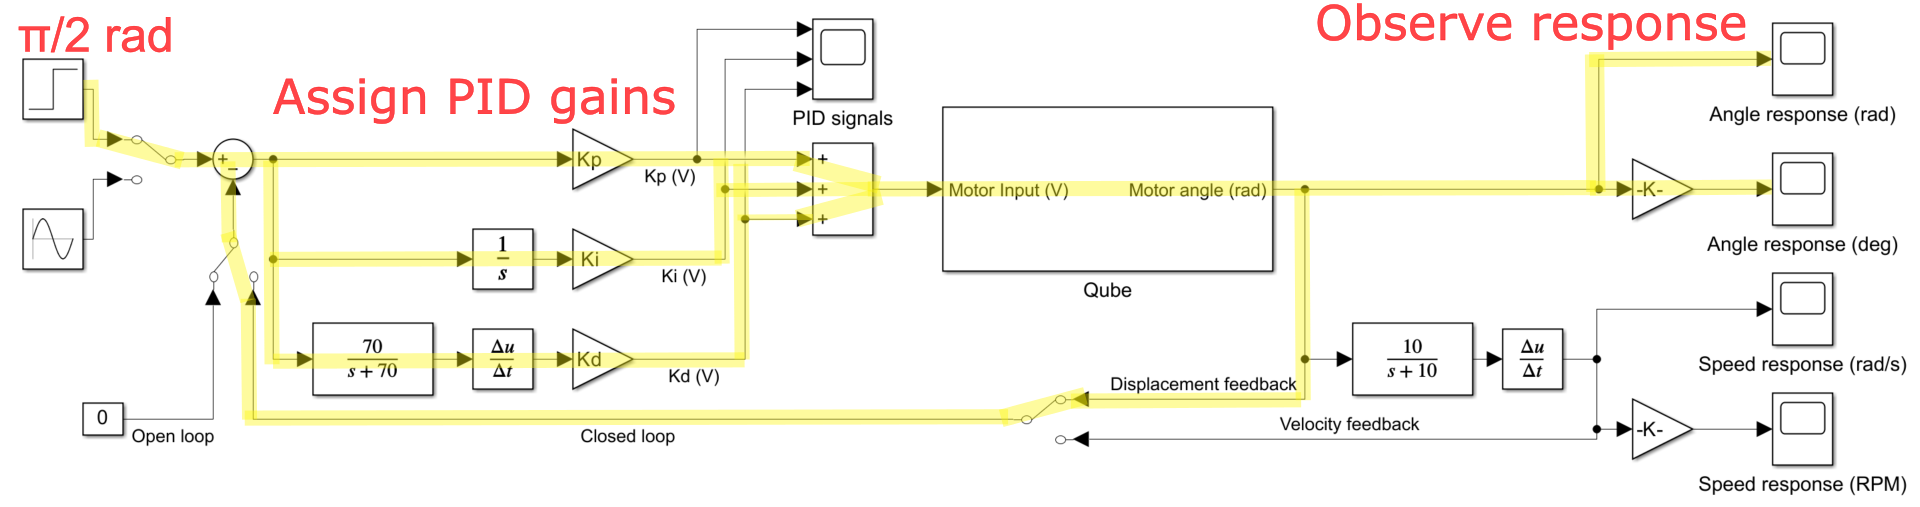
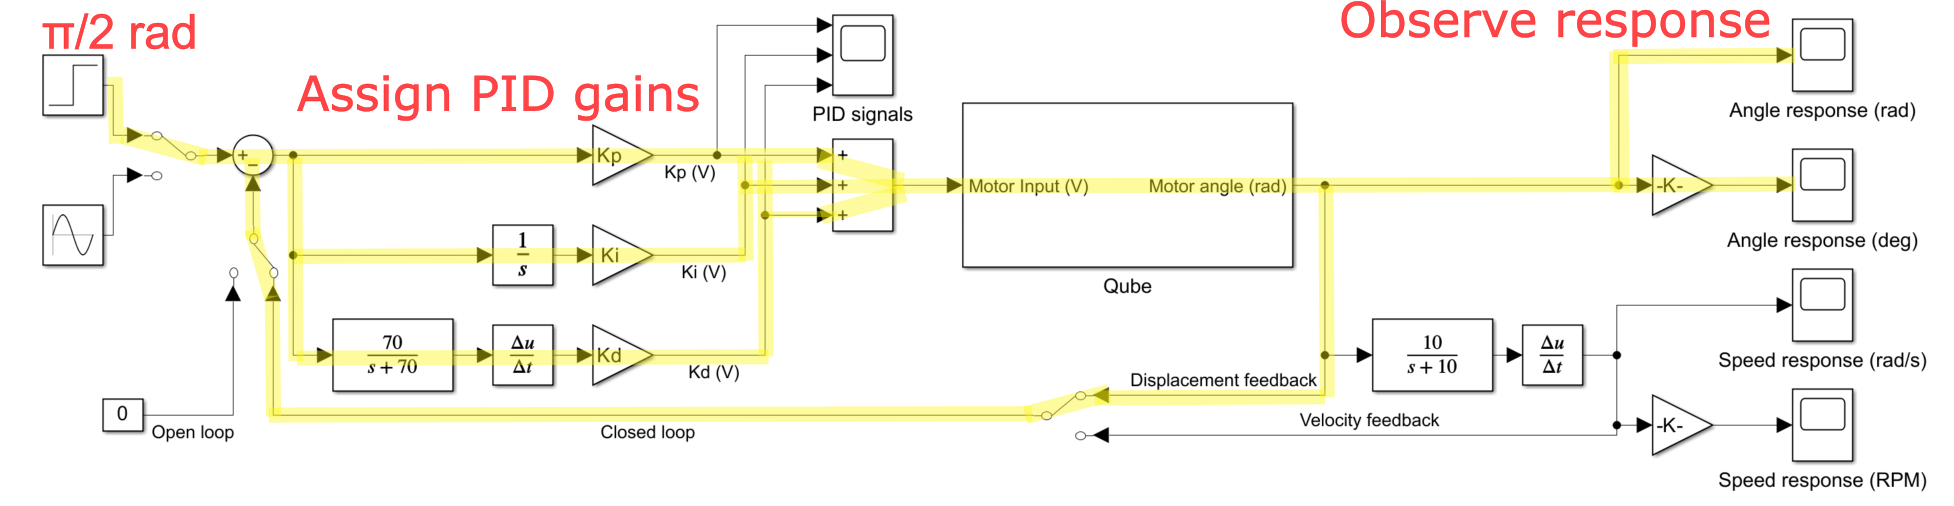
Fix case-colliding Prac4_OverviewB.png filename
Two files differing only in case broke checkouts on case-insensitive
filesystems. Keep the referenced image under the lowercase name to
match prac4_OverviewA/C/D.

Changed region(s): [[0.0, 0.0, 1.0, 0.9783], [0.8125, 0.5336, 1.0, 0.7411]]

diff --git a/acs-prac4.tex b/acs-prac4.tex
@@ -39,7 +39,7 @@ This practical can be completed with an `all-in-one' block diagram, adapted from
     \end{enumerate}
 	\begin{figure}
 	\centering
-	\includegraphics[width=11.5cm]{Prac4_OverviewB}
+	\includegraphics[width=11.5cm]{prac4_OverviewB}
 	\caption{Closed loop response from ITD model tuning laws.}
 \end{figure}
 \end{frame}
